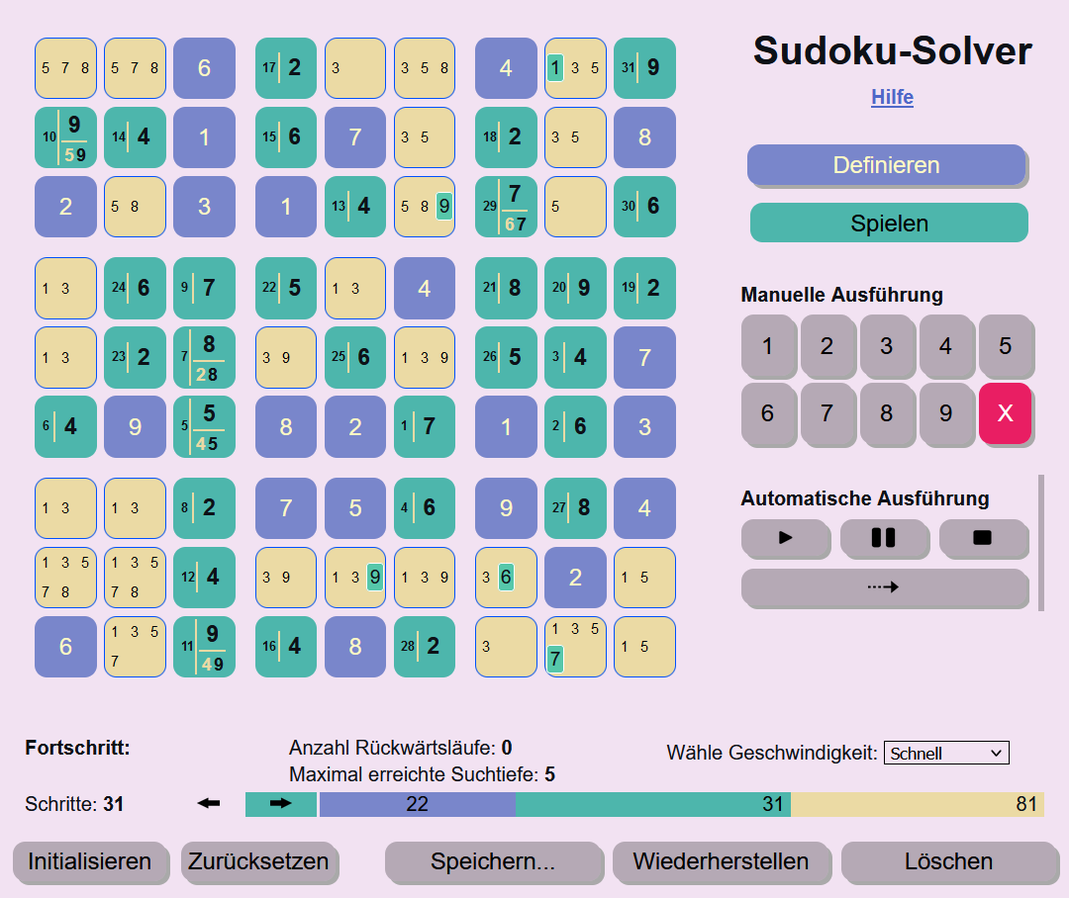
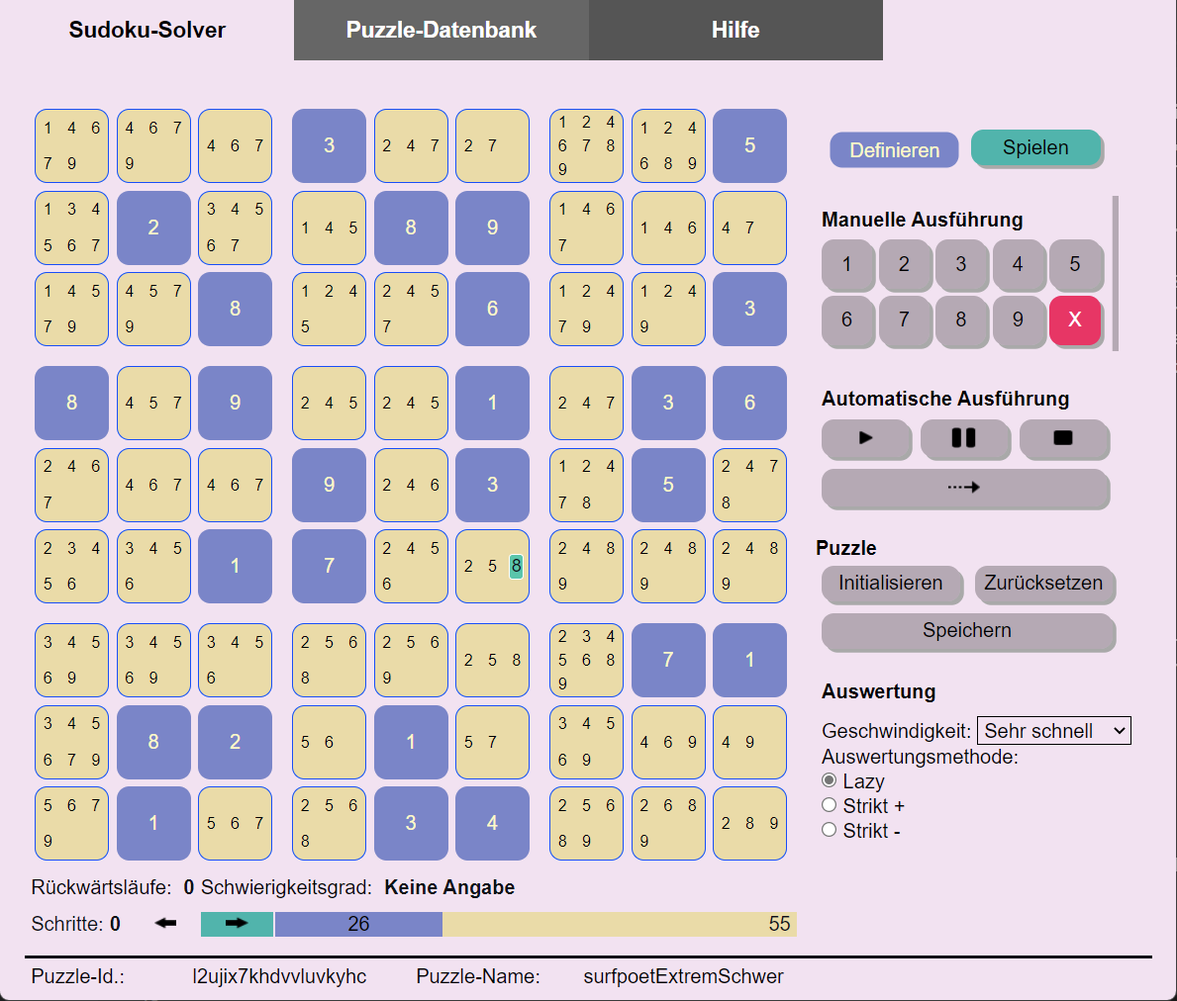
Help aktualisiert

diff --git a/help.md b/help.md
@@ -2,58 +2,63 @@
 layout: default
 ---
 
-# Sudoku-Solver
+# 1 Sudoku-App
 
-Wer kennt das nicht? Beim Kaffeetrinken ein Sudoku lösen. Nach jahrelanger Erfahrung ist man spürbar besser geworden. Und dann kommt ein Sudoku, manchmal auch nur als mittelschwer klassifiziert, und man findet partout nicht die nächste Zelle mit einer eindeutigen Nummernbelegung. Anstatt den Kaffeetisch frustriert zu verlassen, kann man diesen Sudoku-Solver nutzen. Er löst jedes Sudoku in wenigen Minuten und man kann ihm dabei zuschauen. Schritt für Schritt kann man verstehen, wie der Solver zur Lösung des Sudokus gelangt.
+Wer kennt das nicht? Beim Kaffeetrinken ein Sudoku lösen. Nach jahrelanger Erfahrung ist man spürbar besser geworden. Und dann kommt ein Sudoku, manchmal auch nur als mittelschwer klassifiziert, und man findet partout nicht die nächste Zelle mit einer eindeutigen Nummernbelegung. Anstatt den Kaffeetisch frustriert zu verlassen, kann man diese Sudoku-App und den darin enthaltenen Solver nutzen. Er löst jedes Sudoku in wenigen Minuten und man kann ihm dabei zuschauen. Schritt für Schritt kann man verstehen, wie der Solver zur Lösung des Sudokus gelangt.
 
-Zusammen mit der Lösung bestimmt der Solver den tatsächlichen Schwierigkeitsgrad des Sudokus. Sehr schwere Sudokus, Definition siehe unten, sind manuell kaum zu lösen. Sie sollten daher kein Grund für Frust sein. Bei leichten und mittleren Sudokus lässt der Solver den eigenen Denkfehler erkennen oder er zeigt bei mangelnder Idee für den nächsten Schritt mögliche nächste Schritte. Konsequenz: Sudokulösen macht Spaß.
+Zusammen mit der Lösung bestimmt der Solver den tatsächlichen Schwierigkeitsgrad des Sudokus. Sehr schwere Sudokus, Definition siehe unten, sind manuell kaum zu lösen. Sie sollten daher kein Grund für Frust sein. Bei leichten und mittleren Sudokus lässt der Solver den eigenen Denkfehler erkennen oder er zeigt bei mangelnder Idee für den nächsten Schritt mögliche nächste Schritte. Konsequenz: Mit dieser Sudoku-App macht das Sudokulösen wieder Spaß.
 
-## Überblick
+## App-Überblick
 
 ![Anwendungsansicht](./images/AppView.png)
 
-## Typischer Ablauf
+Die App besteht aus zwei Komponenten, dem Sudoku-Solver und der Puzzle-Datenbank. Mit Hilfe des Sudoku-Solvers kann man beliebige Sudoku-Aufgaben, sprich Sudoku-Puzzles, manuell oder automatisch lösen. In der Puzzle-Datenbank können Puzzles und mit ihren Eigenschaften, etwa dem Schwierigkeitsgrad, den benötigten Lösungsschritten und der Lösung selbst gespeichert werden.
 
-1. **Sudoku eingeben:** "Definieren" wählen und die Zellen mit den Nummern der Sudoku-Aufgabe setzen.
-2. **Sudoku lösen:** "Spielen" wählen und die Zellen mit den vermutet richtigen Nummern belegen.
+## Die Komponente Sudoku-Solver
 
-In beiden Fällen besteht ein Spielschritt aus zwei Subschritten:
+Der Solver besteht im Wesentlichen aus der 9 x 9 Sudoku-Matrix. In den Zellen der Matrix können Nummern von 1 .. 9 gesetzt werden. um den Spieler zu unterstützen, werden für Zellen, die noch keine gesetzte Nummer haben, die aktuell noch möglichen Nummern der Zelle angezeigt. Zusätzlich werden die Zellen der Matrix in 3 x 3 Gruppen unterteilt, 9 an der Zahl.
 
-- Sudoku-Zelle selektieren.
-- Nummer setzen: D.h. eine Nummer in der "Manuellen Ausführung" wählen.
+### Typischer Ablauf der Lösung eines Sudoku-Puzzles
 
-Solltest Du eine Nummern-Setzung zurücknehmen wollen, so selektiere die betroffene Zelle und betätige die rote Lösch-Taste.
+1. **Sudoku-Puzzle eingeben:** "Definieren" wählen und die Zellen mit den Nummern der Sudoku-Aufgabe setzen.
+2. **Sudoku-Puzzle lösen:** "Spielen" wählen und die Zellen mit den vermutet richtigen Nummern belegen.
 
-## Die möglichen Inhalte einer Sudoku-Zelle
+Beim Definieren wie auch beim Lösen besteht ein Spielschritt aus zwei Subschritten:
+
+1. **Sudoku-Zelle selektieren**.
+1. **Nummer setzen**: D.h. eine Nummer in der "Manuellen Ausführung" wählen.
+
+Soll eine Nummern-Setzung zurückgenommen werden, muss die betroffene Zelle selektiert werden und dann die rote Lösch-Taste gedrückt werden.
+
+### Die möglichen Inhalte einer Sudoku-Zelle
 
 |Zelle  |Bedeutung  |
 |---------|---------|
-|![Definitionszelle](./images/definedCell.png)|**In der Definitionsphase gesetzte Nummer:** In dieser Zelle wurde während der Definitionsphase die Nummer 3 gesetzt.|
-|![Spielzelle](./images/playedCell.png)|**In der Spielphase gesetzte Nummer:** In dieser Zelle wurde in der Spielphase manuell oder automatisch die Nummer 5 gesetzt. Wenn sie automatisch gesetzt wurde, wurde die automatische Ausführung des Solvers inzwischen gestoppt. Mit dem Stoppen der automatischen Ausführung wird in den Spielzellen die Information über die automatische Ausführung gelöscht.
-|![Spielzelle Automatisch](./images/auto1option.png)|**Automatisch gesetzte Nummer:** Der Solver hat in dieser Zelle automatisch die Nummer 2 gesetzt. Und zwar in der 17. Setzung einer Nummer. Die Wahl der zu setzenden Nummer war eindeutig.|
-|![Spielzelle Automatisch Nicht eindeutig](./images/auto2option.png)|**Automatisch gesetzte Nummer einer Auswahl:** Der Solver hat in dieser Zelle automatisch die Nummer 9 gesetzt. Und zwar in der 11. Setzung einer Nummer. Er musste zwischen den beiden Nummern 4 und 9 wählen. Der Solver wählt zunächst die Nummer 9. Wenn die Vervollständigung der Matrix gelingt, kommt die zweite Nummer nicht mehr zum Zuge. Gelingt die Vervollständigung nicht, kehrt der Automat zu dieser Zelle zurück und probiert die zweite Option 4. Die Optionen werden von rechts nach links abgearbeitet. Das Bild zeigt die Option 9 als abgearbeitet. Option 4 wurde noch nicht probiert. Noch nicht abgearbeitete Nummern werden in gelber Schrift angezeigt.|
-|![Optionszelle](./images/optionCell.png)|**Zulässige Nummern:** Für diese Zelle wurde noch keine Nummer gesetzt. Du kannst nur noch eine der Nummern 1, 3, 5 und 7 wählen. Das sind die (noch) zulässigen Nummern der Zelle. Die nicht aufgeführten Nummern sind direkt unzulässig. Eine Nummer ist direkt unzulässig, wenn die Nummer bereits gesetzt ist in der Gruppe, Zeile oder Spalte der Zelle. Wählst Du eine direkt unzulässige Nummer, kommt es zu einem direkten Konflikt. Zwei gleiche Nummern in einer Spalte, Reihe oder Zellgruppe. Die betroffenen Zellen werden rot markiert.|
-|![Singles](./images/singles.png)| **Singles:** Eine Single-Nummer ist eine zulässige Nummer in einer Zelle, wenn es keine weiteren zulässigen Nummern in der Zelle gibt. Im nebenstehenden Beispiel sind die 1 in der linken Zelle und die 7 in der rechten Zelle Singles.|
-|![notwendig](./images/neccessary.png)|**Notwendige Nummer:** Für die nebenstehende Zelle wurde noch keine Nummer gesetzt. Ohne direkten Konflikt sind noch die fünf Nummern 4, 6, 7 und 8 setzbar. Jedoch hat der Solver ermittelt, dass die Nummer 7 notwendig ist, damit das Sudoku lösbar bleibt. 7 ist eine notwendige Nummer für diese Zelle. Eine Nummer in einer Zelle ist notwendig, wenn die Nummer in ihrer Gruppe, Zeile oder Spalte einzig ist. D.h. sie kommt in der betreffenden Gruppe, Zeile oder Spalte nur genau einmal vor. Bei der Bestimmung notwendiger Nummern spielen indirekt unzulässige Nummern (rot markiert) keine Rolle. Im nachfolgenden Beispiel ist die Nummer 1 nicht einzig in ihrer Gruppe, ebenso nicht in ihrer Reihe aber einzig in ihrer Spalte. ![Notwendige Nummer](./images/uniqueNeccessary.png)|
-|![Indirekt unzulässig](./images/indirect.png)|**Indirekt unzulässige Nummer:** Für diese Zelle wurde noch keine Nummer gesetzt. Ohne direkten Konflikt sind noch die fünf Nummern 1, 7 und 8 setzbar. Jedoch ist die Nummer 7 indirekt unzulässig. Wann  ist eine Nummer indirekt unzulässig? Der Solver kennt drei unterschiedliche Gründe. **(1) Unzulässig wegen notwendiger Nummer:** Eine Nummer ist indirekt unzulässig wegen einer notwendigen Nummer, wenn sie in ihrer Spalte, Reihe oder Gruppe auch als notwendige Nummer auftritt. Im vorigen Beispiel sind alle roten Nummern 1 in der Zeile und in der Gruppe der grünen 1 wegen dieser grünen 1 indirekt unzulässig. **(2) Unzulässig wegen einer Single-Nummer:** Eine Nummer ist indirekt unzulässig wegen einer Single-Nummer, wenn sie in ihrer Spalte, Reihe oder Gruppe auch als Single-Nummer auftritt. **(3) Unzulässig wegen Pairing:** Eine Nummer ist indirekt unzulässig, wenn es in einer Gruppe, Zeile oder Spalte Paare gibt und Nummern dieser Paare zusätzlich in weiteren Zellen dieser Gruppe, Spalte oder Zeile auftauchen. Im Beispiel sind das Paar die beiden Zellen mit den Nummern 3 und 7. Fest steht, dass diese beiden Zellen die Nummern 3 und 7 aufnehmen. Es ist lediglich noch offen, welche der Zellen die 3 oder 7 haben wird. Daraus folgt, dass in der Zeile keine weitere 3 oder 7 mehr auftauchen kann. Die 7 ist indirekt unzulässig und deshalb rot markiert. Der Einfachheit halber lassen wir das "indirekt" häufig weg. Im jeweiligen Kontext ist dann klar, ob damit die direkt unzulässigen oder die indirekt unzulässigen Nummern gemeint sind. Direkt unzulässig sind die Nummern, die bereits einmal in einer Gruppe, Zeile oder Spalte gesetzt sind. ![Indirekt unzulässig](./images/pairing.png)|
-|![Indirekter Ausschluss](./images/indirectPairCell.png) |**Indirektes Pairing:** Die Nummern 1 und 8 sind indirekt unzulässig, wegen des indirekten Paares (1 8), das seinerseits entstanden ist wegen des Paares (7 9).![Pairing Begründung](./images/indirectPairReason.png)|
-|![Keine](./images/nochoice.png)|**Leere Option:** Für diese Zelle wurde noch keine Nummer gesetzt. Allerdings gibt es keine zulässige Nummer mehr, die noch gesetzt werden könnte. D.h. das Sudoku ist unlösbar. Wenn das Sudoku noch erfolgreich gelöst werden soll, müssen ein oder mehrere der bisherigen Nummernsetzungen zurückgenommen werden. Tritt während der automatischen Ausführung eine solche Zelle auf, schaltet der Solver in den Rückwärts-Modus um.|
-|![ZweiNotwendige](./images/twoNeccessary.png)|**Widersprüchliche Notwendigkeit:** Für diese Zelle wurde noch keine Nummer gesetzt. Ohne direkten Konflikt sind noch die Nummern 1, 2, 3, 6, 7 und 8 setzbar. Jedoch hat der Solver zwei notwendige Nummern für diese Zelle ermittelt: 1 und 2. Das geht natürlich nicht. Es können in einer Zelle nicht zwei Nummern gleichzeitig gesetzt werden. D.h. das Sudoku ist unlösbar. Wenn das Sudoku noch erfolgreich gelöst werden soll, müssen ein oder mehrere der bisherigen Nummernsetzungen zurückgenommen werden. Tritt während der automatischen Ausführung eine solche Zelle auf, schaltet der Solver in den Rückwärts-Modus um.|
-|![Konflikt](./images/conflct.png)|**Direkt unzulässige Nummer:** Für diese Zelle wurde die Nummer 8 gesetzt. Diese Nummer ist direkt unzulässig, weil in der Spalte, Reihe oder Zellgruppe dieser Zelle bereits eine 8 gesetzt ist. Das zweite oder dritte Auftreten der Nummer wird ebenfalls rot unterlegt angezeigt.|
-|![Kontradiktion](./images/contradiction.png)| **Notwendig-Unzulässig-Widerspruch:** Das Violett der Nummer 3 bedeutet, dass die Nummer gleichzeitig notwendig und unzulässig ist. D.h. das Sudoku ist unlösbar. Wenn das Sudoku noch erfolgreich gelöst werden soll, müssen ein oder mehrere der bisherigen Nummernsetzungen zurückgenommen werden.|
+|<img src="./images/definedCell.png" width="84px" height="84px"/>|**In der Definitionsphase gesetzte Nummer:** In dieser Zelle wurde während der Definitionsphase die Nummer 3 gesetzt.|
+|<img src="./images/playedCell.png" width="84px" height="84px"/>|**In der Spielphase gesetzte Nummer:** In dieser Zelle wurde in der Spielphase manuell oder automatisch die Nummer 5 gesetzt. Wenn sie automatisch gesetzt wurde, wurde die automatische Ausführung des Solvers inzwischen gestoppt. Mit dem Stoppen der automatischen Ausführung wird in den Spielzellen die Information über die automatische Ausführung gelöscht.
+|<img src="./images/auto1option.png" width="84px" height="84px"/>|**Automatisch gesetzte Nummer:** Der Solver hat in dieser Zelle automatisch die Nummer 2 gesetzt. Und zwar in der 17. Setzung einer Nummer. Die Wahl der zu setzenden Nummer war eindeutig. D.h. Die Nummer war eine notwendige Nummer oder ein Single. Definitionen siehe weiter unten.|
+|<img src="./images/auto2option.png" width="84px" height="84px"/>|**Automatisch gesetzte Nummer einer Auswahl:** Der Solver hat in dieser Zelle automatisch die Nummer 9 gesetzt. Und zwar in der 11. Setzung einer Nummer. Er musste zwischen den beiden Nummern 4 und 9 wählen. Der Solver wählt zunächst die Nummer 9. Wenn die Vervollständigung der Matrix gelingt, kommt die zweite Nummer nicht mehr zum Zuge. Gelingt die Vervollständigung nicht, kehrt der Automat zu dieser Zelle zurück und probiert die zweite Option 4. Die Optionen werden von rechts nach links abgearbeitet. Das Bild zeigt die Option 9 als abgearbeitet. Option 4 wurde noch nicht probiert. Noch nicht abgearbeitete Nummern werden in gelber Schrift angezeigt.|
+|<img src="./images/optionCell.png" width="84px" height="84px"/>|**Zulässige Nummern:** Für diese Zelle wurde noch keine Nummer gesetzt. Nur noch eine der Nummern 1, 3, 5 und 7 kann gewählt werden. Das sind die (noch) zulässigen Nummern der Zelle. Die nicht aufgeführten Nummern sind direkt unzulässig.|
+|<img src="./images/neccessary.png" width="84px" height="84px"/>|**Notwendige Nummer:** Für die nebenstehende Zelle wurde noch keine Nummer gesetzt. Ohne direkten Konflikt sind noch die drei Nummern 2, 5 und 8 setzbar. Jedoch hat der Solver ermittelt, dass die Nummer 8 notwendig ist, damit das Sudoku lösbar bleibt. 8 ist eine notwendige Nummer für diese Zelle. Eine Nummer in einer Zelle ist notwendig, wenn die Nummer in ihrer Gruppe, Zeile oder Spalte einzig ist. D.h. sie kommt in der betreffenden Gruppe, Zeile oder Spalte nur genau einmal vor. In der obigen Beispielmatrix ist die 8 einzig in ihrer Gruppe. Bei der Bestimmung notwendiger Nummern spielen indirekt unzulässige Nummern (rot markiert) keine Rolle.|
+|<img src="./images/indirect.png" width="84px" height="84px"/>|**Indirekt unzulässige Nummer:** Für die nebenstehende Zelle wurde noch keine Nummer gesetzt. Ohne direkten Konflikt sind noch die drei Nummern 1, 7 und 8 setzbar. Jedoch hat der Solver ermittelt, dass die 7 indirekt unzulässig ist. Wenn man sie setzen würde, würde der Solver einige Schritte später die Unlösbarkeit des Puzzles feststellen. Zur Definition der indirekten Unzulässigkeit siehe den entsprechenden Abschnitt dieser Hilfe.|
+|<img src="./images/singles.png" width="168px" height="84px"/>| **Singles:** Eine Single-Nummer ist eine zulässige Nummer in einer Zelle, wenn es keine weiteren zulässigen Nummern in der Zelle gibt. Im nebenstehenden Beispiel sind die 1 in der linken Zelle und die 7 in der rechten Zelle Singles. Die 7 bezeichnen wir auch als **direktes Single**, weil zu seiner Bestimmung nicht auf indirekt unzulässige Nummern zurückgegriffen werden muss. Im Gegensatz dazu ist die 1 ein **indirektes Single**. Die 1 ist ein Single, weil die rote 7 indirekt unzulässig ist.|
+|<img src="./images/nochoice.png" width="84px" height="84px"/>|**Leere Option:** Für diese Zelle wurde noch keine Nummer gesetzt. Allerdings gibt es keine zulässige Nummer mehr, die noch gesetzt werden könnte. D.h. das Sudoku ist unlösbar. Wenn das Sudoku noch erfolgreich gelöst werden soll, müssen ein oder mehrere der bisherigen Nummernsetzungen zurückgenommen werden. Tritt während der automatischen Ausführung eine solche Zelle auf, schaltet der Solver in den Rückwärts-Modus um.|
+|<img src="./images/twoNeccessary.png" width="84px" height="84px"/>|**Widersprüchliche Notwendigkeit:** Für diese Zelle wurde noch keine Nummer gesetzt. Ohne direkten Konflikt sind noch die Nummern 1, 2, 3, 6, 7 und 8 setzbar. Jedoch hat der Solver zwei notwendige Nummern für diese Zelle ermittelt: 1 und 2. Das geht natürlich nicht. Es können in einer Zelle nicht zwei Nummern gleichzeitig gesetzt werden. D.h. das Sudoku ist unlösbar. Wenn das Sudoku noch erfolgreich gelöst werden soll, müssen ein oder mehrere der bisherigen Nummernsetzungen zurückgenommen werden. Tritt während der automatischen Ausführung eine solche Zelle auf, schaltet der Solver in den Rückwärts-Modus um.|
+|<img src="./images/conflct.png" width="84px" height="84px"/>|**Direkt unzulässige Nummer:** Für diese Zelle wurde die Nummer 8 gesetzt. Diese Nummer ist direkt unzulässig, weil in der Spalte, Reihe oder Zellgruppe dieser Zelle bereits eine 8 gesetzt ist. Das zweite oder dritte Auftreten der Nummer wird ebenfalls rot unterlegt angezeigt.|
+|<img src="./images/contradiction.png" width="84px" height="84px"/>| **Notwendig-Unzulässig-Widerspruch:** Das Violett der Nummer 3 bedeutet, dass die Nummer gleichzeitig notwendig und indirekt unzulässig ist. D.h. das Sudoku ist unlösbar. Wenn das Sudoku noch erfolgreich gelöst werden soll, müssen ein oder mehrere der bisherigen Nummernsetzungen zurückgenommen werden.|
 
-## Zwei Phasen
+### Zwei Phasen
 
 |Phase  |Bedeutung  |
 |---------|---------|
 |![Definieren](./images/define.png)|Die Taste **Definieren**. Das Drücken dieser Taste versetzt den Solver in die Definitionsphase. In dieser Phase überträgt man die zu lösende Sudoku-Aufgabe in den Solver. Nach der Initialisierung ist diese Taste automatisch gesetzt.|
 |![Spielen](./images/play.png)|Die Taste **Spielen**. Das Drücken dieser Taste versetzt den Solver in die Spielphase. Die Spielphase kann manuell oder automatisch durchgeführt werden. Wird die automatische Ausführung gestartet, wird diese Taste automatisch gesetzt.|
 
-## Manuelle Ausführung
+### Manuelle Ausführung
 
 Die manuelle Ausführung wird in jedem Fall in der Definitionsphase genutzt. In der Spielphase ist sie optional. Die Spielphase kann alternativ auch automatisch durchgeführt werden.
 
-## Automatische Ausführung
+### Automatische Ausführung
 
 |Taste  |Bedeutung  |
 |---------|---------|
@@ -62,110 +67,141 @@ Die manuelle Ausführung wird in jedem Fall in der Definitionsphase genutzt. In 
 |![Stop](./images/stopButton.png)|Die **Stop-Taste**. Der Taktgeber der automatischen Ausführung wird angehalten und der aktuelle Suchprozess wird abgebrochen.|
 |![Step](./images/stepButton.png)|Die **Step-Taste**. Der Solver führt den nächsten automatischen Suchschritt aus. Falls noch nicht geschehen, startet er zuvor den Suchprozess überhaupt. Mit dieser Taste kann man den Solver Schritt für Schritt arbeiten lassen und so jeden einzelnen seiner Schritte verstehen.|
 
-## Initialisieren und Zurücksetzen
+### Initialisieren und Zurücksetzen
 
 |Taste  |Bedeutung  |
 |---------|---------|
 |![Initialisieren](./images/initButton.png)|Die Taste **Initialisieren**. Durch das Drücken dieser Taste wird der Solver wird initialisiert. Danach ist die Sudoku-Tabelle leer.|
 |![Reset](./images/resetButton.png)|Die Taste **Zurücksetzen**. Mittels dieser Taste wird der Solver zurückgesetzt auf die Aufgabenstellung. D.h. alle in der Spielphase gesetzten Zellen werden gelöscht. Die Zellen der Definitionsphase bleiben erhalten.|
+|![Speichern](./images/storeButton.png)|Mittels dieser Taste kann das aktuelle Puzzle in der Datenbank gespeichert werden.|
 
-## Spielstände speichern und wiederherstellen
+## Theoretische Grundlagen des Solvers
 
-Spielstände können im lokalen Speicher des Browsers gespeichert werden, nicht jedoch auf dem Computer selbst. Internet-Anwendungen ist es generell nicht gestattet, auf Inhalte des Computers zuzugreifen. D.h. Man kann seine gespeicherten Zustände nur in dem Browser wiederfinden, in dem sie gespeichert wurden.
+### Indirekt unzulässige Nummern
 
-|Taste  |Bedeutung  |
-|---------|---------|
-|![Speichern](./images/storeButton.png)|Die Taste **Speichern unter...**. Mit dieser Taste kann der aktuelle Spielstand unter einem Namen gespeichert werden. Oft wird man den Zustand nach der Fertigstellung der Definition speichern wollen.|
-|![Wiederherstellen](./images/restoreButton.png)|Die Taste **Wiederherstellen**. Mit Hilfe dieser Taste kann ein zuvor gespeicherter Zustand wiederhergestellt werden. Dabei wird der aktuelle Zustand gelöscht.|
-|![Löschen](./images/deleteStoredState.png)|Die Taste **Löschen**. Mit dieser Taste kann ein gespeicherter Zustand  gelöscht werden.|
+Indirekt unzulässige Nummern spielen eine wichtige Rolle bei der Bestimmung der nächsten zu setzenden Nummer mittels indirekter Singles. Ebenso bilden sie die Grundlage für die frühe Erkennung der Widersprüchlichkeit eines Puzzles. Dazu später mehr. Indirekt unzulässige Nummern werden rot angezeigt. Wann ist eine Nummer indirekt unzulässig? Der vorliegende Solver kennt drei unterschiedliche Gründe.
 
-## Den Solver bei der Lösungssuche beobachten
+1. **Indirekt unzulässig wegen einer notwendigen Nummer:** Eine Nummer ist indirekt unzulässig wegen einer notwendigen Nummer, wenn sie in ihrer Spalte, Reihe oder Gruppe auch als notwendige Nummer auftritt. Im nachfolgenden Beispiel sind die roten Nummern 8 wegen der grünen 8 indirekt unzulässig. Die grüne 8 ist notwendig, weil sie in ihrer Spalte einzig ist.![Indirekt wegen notwendig](./images/indirektwgnotwendig.png)
 
-Dieser Sudoku-Solver erlaubt es, ihm beim Suchen zuzusehen. Im Vorwärts-Modus führt er abwechselnd eine Zellselektion und eine Nummernsetzung durch, im Rückwärts-Modus, eine Zellselektion und eine Nummernlöschung.
+1. **Indirekt unzulässig wegen einer Single-Nummer:** Eine Nummer ist indirekt unzulässig wegen einer Single-Nummer, wenn sie in ihrer Spalte, Reihe oder Gruppe ein zweites mal als Single-Nummer auftritt.
 
-### Wie wählt der Solver die nächste Zelle und die in ihr zu setzende Nummer?
+1. **Indirekt unzulässig wegen Pairing:** Eine Nummer ist indirekt unzulässig, wenn es in einer Gruppe, Zeile oder Spalte Paare gibt und Nummern dieser Paare zusätzlich in weiteren Zellen dieser Gruppe, Spalte oder Zeile auftauchen. Im nachfolgenden Beispiel sind das 4-9-Paar und das 2-8-Paar kritische Paare. Das 4-9-Paar macht in seiner Gruppe alle 4 und 9 indirekt unzulässig. Ebenso in seiner Reihe. Das 2-8-Paar macht in seiner Spalte die rote 8 indirekt unzulässig. Die 2 in rechten Zelle ganz unten ist die nächste indirekte Single.![Indirekt unzulässig](./images/pairingNew.png)
 
-Der Solver sucht gemäß der folgenden Priorität die nächste offene Zelle:
+### Auswertungsmethoden
 
-1. **Zellen mit einer notwendigen Nummer:** Der Solver wählt in der Matrix zunächst die offenen Zellen, die in der Menge ihrer zulässigen Nummern eine notwendige Nummer haben. Diese notwendige Nummer wird dann in der Zelle gesetzt. Wenn es mehrere Zellen mit dieser Eigenschaft, wählt er die erste in seiner Liste.
-1. **Zellen mit nur einer zulässigen Nummer**: Dann wählt er Zellen mit nur einer zulässigen Nummer. Denn auch für diese ist die Nummernsetzung eindeutig. Er setzt diese Nummer.
-1. **Zellen mit minimaler Anzahl von zulässigen Nummern**. Sind keine eindeutigen Nummernsetzungen mehr verfügbar, wählt er Zellen mit minimaler Anzahl von zulässigen Nummern. In dieser Menge wählt er zufällig die Nummer, die er dann setzt. Im Laufe der weiteren Suche kann sich herausstellen, dass diese Nummer keine Lösung des Sudokus erlaubt. Der Back-Tracking-Prozess kehrt im weiteren Verlauf zu dieser Zelle zurück und versucht dann mit der Wahl einer anderen Nummer die Lösung zu finden.
+Die beiden Beispielmatrizen im vorigen Abschnitt zeigen den Solver in unterschiedlichen Auswertungsmodi. Im ersten Beispiel Strikt +, im zweiten Beispiel Lazy. Man sieht sofort, dass die Paarerkennung im Strikt-Modus wegen der Fülle indirekt unzulässiger Nummern nur noch schwer möglich ist. Abhilfe schafft hier die Lazy-Auswertung.
 
-### Wie prüft der Solver die neu gesetzte Nummer?
+1. **Lazy Auswertung:** Diese Auswertungsmethode praktiziert eine verzögerte Auswertung. Die Auswertung erfolgt nur soweit, bis die nächste notwendige oder direkte oder indirekte Single-Nummer bestimmt ist. Diese Nummer wird dann gesetzt. Im Beispiel die 2 rechts unten.
 
-Der Solver prüft nach der Setzung einer neuen Nummer, ob das Sudoku mit dieser gesetzten Nummer unlösbar geworden ist. Falls ja, wird der Solver in den Rückwärts-Modus geschaltet und geht zurück bis zu einer Zelle, die mehrere Optionen für eine Nummernsetzung hatte.
+1. **Strikte Auswertung:** Diese  Auswertungsmethode führt eine vollständige Auswertung durch: Alle aktuell indirekt unzulässigen Nummern, alle notwendigen Nummern, alle direkten Singles und indirekten Singles werden ermittelt. Danach können diese Nummern nach und nach gesetzt werden.
 
-## Unlösbare bzw. widerspruchsvolle Sudokus
+Die strikte Auswertung kann in zwei Varianten angezeigt werden:
 
-Der automatische Solver setzt solange weitere Nummern in der Matrix, bis er entweder alle Zellen gesetzt hat (das Sudoku ist gelöst), oder er erkennt, dass das Sudoku bei der aktuellen Befüllung unlösbar ist. Ein Sudoku ist unlösbar, wenn es
+1. **Strikt +**: Alle errechneten indirekt unzulässigen Nummern werden angezeigt.
 
-1. eine unlösbare Zelle besitzt, oder
-1. eine unlösbare Gruppe besitzt, oder
-1. eine unlösbare Zeile besitzt, oder
-1. eine unlösbare Spalte besitzt.
+1. **Strikt -** : Die errechneten indirekten unzulässigen Nummern werden ausgeblendet. Das nachfolgende Bild zeigt die vorige Matrix im Strikt-Minus-Modus. ![Strikt Minus](./images/striktminus.png)
+
+In der Strikt-Minus-Matrix dieses Beispiels besitzen alle Zellen nur noch genau eine zulässige Nummer. Alle Nummern sind Singles. Mit anderen Worten: wir sehen hier die Lösung des Sudokus. Der Solver präsentiert hier eine Lösung ohne Backtracking. Die meisten leichten und mittleren Sudokus in den Zeitschriften besitzen diese Eigenschaft der determinierten Lösungsfindung.
+
+## Widerspruchsvolle Sudokus
+
+Der automatische Solver setzt solange weitere Nummern in der Matrix, bis er entweder alle Zellen gesetzt hat (das Sudoku ist gelöst), oder er erkennt, dass das Sudoku bei der aktuellen Befüllung widerspruchsvoll ist. Ein Sudoku-Puzzle ist widerspruchsvoll, wenn es
+
+1. eine widerspruchsvolle Zelle besitzt, oder
+1. eine widerspruchsvolle Gruppe besitzt, oder
+1. eine widerspruchsvolle Zeile besitzt, oder
+1. eine widerspruchsvolle Spalte besitzt.
 
 Es können mehrere dieser Bedingungen gleichzeitig vorliegen.
 
-### Unlösbare Zellen
+### Widerspruchsvolle Zellen
 
 ![Keine](./images/nochoice.png) ![ZweiNotwendige](./images/twoNeccessary.png) ![Konflikt](./images/conflct.png) ![Kontradiktion](./images/contradiction.png)
 
-Unlösbare Zellen hatten wir oben schon kennengelernt. Es sind dies Zellen mit leerer Option, Zellen mit widersprüchlicher Notwendigkeit, Zellen mit direkt unzulässiger Nummer und Zellen mit einem Notwendig-Unzulässig-Widerspruch.
+Widerspruchsvolle Zellen hatten wir oben schon kennengelernt. Es sind dies Zellen mit leerer Option, Zellen mit widersprüchlicher Notwendigkeit, Zellen mit direkt unzulässiger Nummer und Zellen mit einem Notwendig-Unzulässig-Widerspruch.
 
-### Unlösbare Gruppen
+### Widerspruchsvolle Gruppen
 
-![Gruppenkonflikt](./images/groupconflict.png)|
+<img src="./images/groupconflict.png" width="200px" height="200px"/>
 
-So wie es unlösbare Zellen geben kann - erkennbar an ihrem roten Hintergrund - so kann es auch unlösbare Gruppen geben. Eine Gruppe ist unlösbar, wenn eine der folgenden Bedingungen vorliegt:
+So wie es widerspruchsvolle Zellen geben kann - erkennbar an ihrem roten Hintergrund - so kann es auch widerspruchsvolle Gruppen geben. Eine Gruppe ist widerspruchsvoll, wenn eine der folgenden Bedingungen vorliegt:
 
 1. **Single-Widerspruch:** Eine Nummer soll gleichzeitig in verschiedene Zellen der Gruppe gesetzt werden wie die 3 im Beispiel.
 1. **Pairing-Widerspruch:** Wegen des Paares {1 9} im nachfolgenden Beispiel dürfen weder die 1 noch die 9 ein weiteres mal in der Gruppe vorkommen. Im Beispiel kommt im Widerspruch dazu die 9 ein weiteres mal vor.
 
-Tritt während der automatischen Ausführung eine solche unlösbare Gruppe auf, schaltet der Solver in den Rückwärts-Modus um.
+Tritt während der automatischen Ausführung eine solche widerspruchsvolle Gruppe auf, schaltet der Solver in den Rückwärts-Modus um.
 
-![Unlösbare Gruppe](./images/insolvablegroup.png)
+<img src="./images/insolvablegroup.png" width="200px" height="200px"/>
 
-### Unlösbare Zeilen und/oder Spalten
+### Widerspruchsvolle Zeilen und/oder Spalten
 
-Es kann auch unlösbare Zeilen oder Spalten geben. Eine Spalte oder Zeile ist unlösbar (ganz analog zu der Definition für Gruppen), wenn eine der folgenden Bedingungen vorliegt:
+Es kann auch widerspruchsvolle Zeilen oder Spalten geben. Eine Spalte oder Zeile ist widerspruchsvoll (ganz analog zu der Definition für Gruppen), wenn eine der folgenden Bedingungen vorliegt:
 
 1. **Single-Widerspruch**: Eine Nummer soll gleichzeitig in verschiedene Zellen der Zeile und/oder Spalte gesetzt werden wie die 8 im nachfolgenden Beispiel.
 1. **Pairing-Widerspruch**: Bei Auftreten eines Paares dürfen die Nummern des Paares kein weiteres mal in der Zeile und/oder Spalte vorkommen.
 
 ![Spaltenkonflikt](./images/colconflct.png)
 
+## Den Solver beobachten
+
 ### Vorwärts und Rückwärts
 
-Der Solver zeigt an, wie er im Suchprozess vorwärts und rückwärts geht. Im Fachjargon: Der Solver realisiert einen Back-Tracking-Algorithmus. Rückwärts muss er gehen, wenn die aktuell gesetzte Nummer zur Unlösbarkeit des Sudokus führt. Rückwärtsgehen bedeutet, dass der Solver der Reihe nach zuvor gesetzte Nummern wieder zurücknimmt, bis er auf eine Zelle trifft, in der er mehrere zulässigen Nummern zur Auswahl hatte. Er wählt dann die nächste noch nicht probierte Zahl der Auswahl und geht wieder in den Vorwärts-Modus. Sind alle zulässigen Nummern durchprobiert, geht er weiter rückwärts. Wenn er im Rückwärtsgehen bei der ersten gesetzten Zelle ankommt, hat das Sudoku keine Lösung.
+Der Solver zeigt an, wie er im Suchprozess vorwärts und rückwärts geht. Im Fachjargon: Der Solver realisiert einen Back-Tracking-Algorithmus. Rückwärts muss er gehen, wenn die aktuell gesetzte Nummer zur Widersprüchlichkeit des Sudokus führt. Rückwärtsgehen bedeutet, dass der Solver der Reihe nach zuvor gesetzte Nummern wieder zurücknimmt, bis er auf eine Zelle trifft, in der er mehrere zulässigen Nummern zur Auswahl hatte. Er wählt dann die nächste noch nicht probierte Zahl der Auswahl und geht wieder in den Vorwärts-Modus. Sind alle zulässigen Nummern durchprobiert, geht er weiter rückwärts. Wenn er im Rückwärtsgehen bei der ersten gesetzten Zelle ankommt, hat das Sudoku keine Lösung.
 
 Der Solver zeigt die Anzahl der zurückgelegten Schritte an. Jedes Setzen einer Zelle sowie die Rücknahme einer Setzung erhöht den Zähler um 1. Ebenso zeigt der Solver die Anzahl der Rückwärtsläufe und die bisher maximal erreichte Suchtiefe an. Immer wenn er auf eine Zelle trifft, in der es keine eindeutige Nummernwahl gibt, erhöht er seine Suchtiefe.
 
-## Unzulässige Nummern ausblenden oder anzeigen
+### Wie wählt der Solver die nächste Zelle und die in ihr zu setzende Nummer?
 
-Durch Setzen bzw. Nicht-Setzen der Checkbox "Unzulässige Nummern anzeigen" kann der Anwender deutlich mehr Information über sein Sudoku sichtbar machen. Betrachten wir das folgende Beispiel.
+Der Solver sucht gemäß der folgenden Priorität die nächste offene Zelle und die zu setzende Nummer:
 
-![Unzulässige sichtbar](./images/unzulässigesichtbar.png)
+1. **Zelle mit notwendiger Nummer:** Der Solver wählt in der Matrix zunächst eine offene Zelle, die in der Menge ihrer zulässigen Nummern eine notwendige Nummer hat. Diese notwendige Nummer wird dann in der Zelle gesetzt.
+1. **Zelle mit direkter Single**: Wenn es keine Zelle mit notwendiger Nummer mehr gibt, wählt der Solver eine Zelle mit nur einer zulässigen Nummer. Er setzt diese Nummer.
+1. **Zelle mit indirekter Single**: Wenn es keine Zelle mit notwendiger Nummer oder mit direkter Single mehr gibt wählt der Solver eine Zelle mit indirekter Single.
+1. **Zelle mit minimaler Optionenmenge**. Sind keine Zellen mit notwendigen Nummern oder Singles mehr verfügbar, wählt der Solver eine Zelle mit minimaler Anzahl von zulässigen Nummern. Die sogenannten Optionen der Zelle. In dieser Menge wählt er zufällig die Nummer, die er dann setzt. Im Laufe der weiteren Suche kann sich herausstellen, dass diese Nummer keine Lösung des Sudokus erlaubt. Der Back-Tracking-Prozess kehrt im weiteren Verlauf zu dieser Zelle zurück und versucht dann mit der Wahl einer anderen Nummer aus der Optionenmenge die Lösung zu finden.
 
-Dies ist die Ansicht nach der Eingabe aller Nummern der Sudoku-Aufgabenstellung. Die roten Nummern in den Zellen sind unzulässige Nummern errechnet nach den oben dargestellten Regeln. Der Anwender würde jetzt den Backtrack-Prozess starten, um eine Lösung dieses Sudokus zu erhalten. Wenn er jedoch zuvor einmal die unzulässigen Nummern ausblenden würde, würde er folgendes sehen:
+### Wie prüft der Solver die neu gesetzte Nummer?
 
-![Unzulässige unsichtbar](./images/unzulässigenichtsichtbar.png)
+Der Solver prüft nach der Setzung einer neuen Nummer, ob das Sudoku mit dieser gesetzten Nummer widersprüchlich geworden ist. Falls ja, wird der Solver in den Rückwärts-Modus geschaltet und geht zurück bis zu einer Zelle, die mehrere Optionen für eine Nummernsetzung hatte.
 
-In dieser Matrix besitzen alle Zellen nur noch genau eine zulässige Nummer. Mit anderen Worten: wir sehen hier die Lösung des Sudokus bevor der Backtrack-Algorithmus überhaupt gestartet wurde. Oder anders ausgedrückt: Der Solver präsentiert hier eine Lösung ohne Backtracking. Die meisten leichten und mittleren Sudokus in den Zeitschriften besitzen diese Eigenschaft der determinierten Lösungsfindung.
+### Unterschiedliche Schrittzahlen für die Ausführungsmodi Lazy und Strikt
 
-## Sudoku-Schwierigkeitsgrade
+Im Auswertungsmodus Lazy benötigt der Solver mehr Schritte bis zur Lösung des Puzzles als im Ausführungsmodus Strikt. Woran liegt das?
 
-Wenn man bei der manuellen Lösung eines Sudokus nicht weiterkommt, kann man den vorliegenden Solver zur Hilfe nehmen. Ein Trost für das eigene Steckenbleiben könnte sein, dass der Solver einen höheren Schwierigkeitsgrad des Sudokus bestätigt. Auf dem Hintergrund dieses Solvers kann man folgende Schwierigkeitsgrade unterscheiden:
+Es liegt daran, dass der Solver im Ausführungsmodus Strikt sehr viel früher die Widersprüchlichkeit der aktuellen Nummernbelegungen feststellt. Dies wiederum führt dazu, dass die Anzahl der Rückwärtsschritte entsprechend geringer wird und damit die Anzahl der Schritte insgesamt. Die Anzahl der Rückwärtsläufe bleibt gleich. Es werden dieselben Optionen geprüft.
+
+Warum dann überhaupt die Lazy-Auswertung? Die Lazy-Auswertung ist interessant, wenn man den Lösungsvorgang im Einzelnen nachvollziehen will. Es werden nur indirekt unzulässige Nummern angezeigt, die für den nächsten Schritt relevant sind. Für diese wenigen indirekt unzulässigen Nummern ist ihre Verursachung erkennbar.
+
+## Sudoku-Schwierigkeitsgrade (Level)
+
+Wenn man bei der manuellen Lösung eines Sudokus nicht weiterkommt, kann man den vorliegenden Solver zur Hilfe nehmen. Ein Trost für das eigene Steckenbleiben könnte sein, dass der Solver einen höheren Schwierigkeitsgrad des Sudokus bestätigt. Dieser Solver unterscheidet folgende Schwierigkeitsgrade:
 
 1. **Leicht:** Nur durch die Bestimmung notwendiger Nummern kann die Lösung des Sudokus erreicht werden.
-1. **Mittel:** Durch die Bestimmung notwendiger Nummern und mindestens eines Singles kann die Lösung des Sudokus erreicht werden. Für die Bestimmung von Singles müssen unzulässige Nummern bestimmt werden. Dies unterscheidet diesen Schwierigkeitsgrad vom Schwierigkeitsgrad "Leicht".
-1. **Schwer:** Bei diesem Schwierigkeitsgrad muss der Solver für mindestens eine Zelle eine Nummer raten und ausprobieren. "Trial and error" oder "Backtracking" sind die dazugehörigen Stichworte. In vielen Fällen muss für nur eine Zelle geraten werden. Danach ist wieder alles deterministisch.
-1. **Sehr schwer:** Bei diesem Schwierigkeitsgrad muss der Solver für mehrere Zellen eine Nummer raten und ausprobieren. Stichwort: Volles Backtracking. Der Solver führt für die Berechnung der Lösung zahlreiche Rückwärtsläufe durch.
-1. **Extrem schwer**: Extrem schwer sind Sudokus, die mehrere Lösungen haben. Sie haben keine eindeutige Lösung. Der Solver beherrscht auch Sudokus, die mehrere Lösungen haben. Nach der Erfolgsmeldung mit der ersten Lösung kann der Anwender nach der nächsten Lösung suchen lassen, solange bis der Solver meldet: "*Keine weitere Lösung gefunden*".
+1. **Mittel:** Durch die Bestimmung notwendiger Nummern und mindestens eines direkten Singles kann die Lösung des Sudokus erreicht werden.
+1. **Schwer:** Bei diesem Schwierigkeitsgrad benötigt der Solver mindestens ein indirektes Single. Für die Bestimmung von indirekten Singles müssen indirekt unzulässige Nummern (rot dargestellt) bestimmt werden. Dies unterscheidet diesen Schwierigkeitsgrad vom Schwierigkeitsgrad Mittel.
+1. **Sehr Schwer:** Bei diesem Schwierigkeitsgrad muss der Solver für mindestens eine Zelle eine Nummer raten und ausprobieren. "Trial and error" oder "Backtracking" sind die dazugehörigen Stichworte. Der Solver führt für die Berechnung der Lösung unter Umständen zahlreiche Rückwärtsläufe durch.
+1. **Extrem Schwer**: Extrem schwer sind Sudokus, die mehrere Lösungen haben. Sie haben keine eindeutige Lösung. Der Solver beherrscht auch Sudokus, die mehrere Lösungen haben. Nach der Erfolgsmeldung mit der ersten Lösung kann der Anwender nach der nächsten Lösung suchen lassen, solange bis der Solver meldet: "*Keine weitere Lösung gefunden*".
 
-Die in den Zeitungen oder Zeitschriften als leicht oder mittelschwer klassifizierten Sudoku-Aufgaben sind meistens auch in dem hier dargestellten Sinn "leicht" und "mittel". D.h. sie sind deterministisch und können ohne Backtracking gelöst werden. Meist haben sie um die 30 bereits gesetzte Definitionszellen. Schwere Sudoku-Aufgaben beginnen mit 22 - 25 Definitionszellen. Bei noch geringerer Anzahl von Definitionszellen dürfte die Sicherstellung der eindeutigen Lösung nicht mehr erreichbar sein.
+Extrem oder sehr schwere Sudokus eignen sich nicht für die manuelle Lösungssuche. Die in den Zeitungen oder Zeitschriften als Leicht, Mittel oder Schwer klassifizierten Sudoku-Aufgaben sind meistens in dem hier dargestellten Sinn Leicht oder Mittel. Selten auch einmal schwer. D.h. die Zeitungs-Sudokus können in der Regel ohne Backtracking gelöst werden. Meist haben sie um die 30 bereits gesetzte Definitionszellen. Schwere Sudoku-Aufgaben beginnen mit 22 - 25 Definitionszellen. Bei noch geringerer Anzahl von Definitionszellen dürfte die Sicherstellung der eindeutigen Lösung nicht mehr erreichbar sein.
 
-## Lösbare bzw. nicht lösbare Sudokus
+## Die Puzzle-Datenbank
 
-Sudokus können unlösbar sein. Dies ist der Fall, wenn sie versteckt einen Widerspruch enthalten. Wenn dies der Fall ist, meldet der Solver: "*Keine Lösung gefunden*". Der Solver deckt die Unlösbarkeit garantiert auf.
+Sudoku-Puzzles und ihre Lösungen können im lokalen Speicher des Browsers gespeichert werden, nicht jedoch auf dem Computer selbst. Internet-Anwendungen ist es generell nicht gestattet, auf den lokalen Speicher des Computers zuzugreifen. D.h. Man kann seine gespeicherten Puzzles nur in dem Browser wiederfinden, in dem sie gespeichert wurden.
 
-Die in Zeitungen und Magazinen gestellten Sudoku-Aufgaben sind in der Regel lösbar und eindeutig. D.h. sie besitzen überhaupt eine Lösung und diese Lösung ist eindeutig. Der Solver findet diese Lösung auf jeden Fall, und dies fast immer mit weniger als 200 Schritten.
+![PuzzleDB](./images/puzzleDB.png)
+
+Beim Abspeichern kann dem Puzzle ein Name gegeben werden. Automatisch erhält es eine eindeutige ID. Zusätzlich werden weitere Attribute für das gespeicherte Puzzle erfasst:
+
+|Attribut  |Bedeutung  |
+|---------|---------|
+|Puzzle-ID|Die eindeutige ID des gespeicherten Puzzles|
+|Definierte Zeilen|Die Zahl der der definierten Zeilen des Puzzles.|
+|Status|Der Spielstatus des gespeicherten Puzzles.|
+|Schritte (lazy)|Die Anzahl der Schritte, die der Solver brauchte, um das Puzzle im Auswertungsmodus Lazy zu lösen.|
+|Schritte (strikt)|Die Anzahl der Schritte, die der Solver brauchte, um das Puzzle im Auswertungsmodus Strikt + bzw. Strikt - zu lösen.|
+|Level|Der ermittelte Schwierigkeitsgrad des gespeicherten Puzzles.|
+|#Rückwärts|Die Anzahl der Rückwärtsläufe, die der Solver durchgeführt hat, um das Puzzle zu lösen.|
+|Datum|Datum, an dem das Puzzle zuletzt gespeichert wurde.
+
+Die Puzzles der Datenbank können sortiert werden nach jeder Spalte. Dazu einfach den Spaltenkopf klicken. Wiederholtes Klicken wechselt zwischen der aufsteigenden und der absteigenden Sortierung.
+
+Gespeicherte Puzzles können auch wieder gelöscht werden. Durch Drücken der Lade-Taste wird das selektierte Puzzle in den Sudoku-Solver geladen. Mit den Pfeiltasten kann in der Tabelle vorwärts und rückwärts navigiert werden. Durch Klicken auf eine Zeile der Tabelle kann ein Puzzle direkt selektiert werden.
